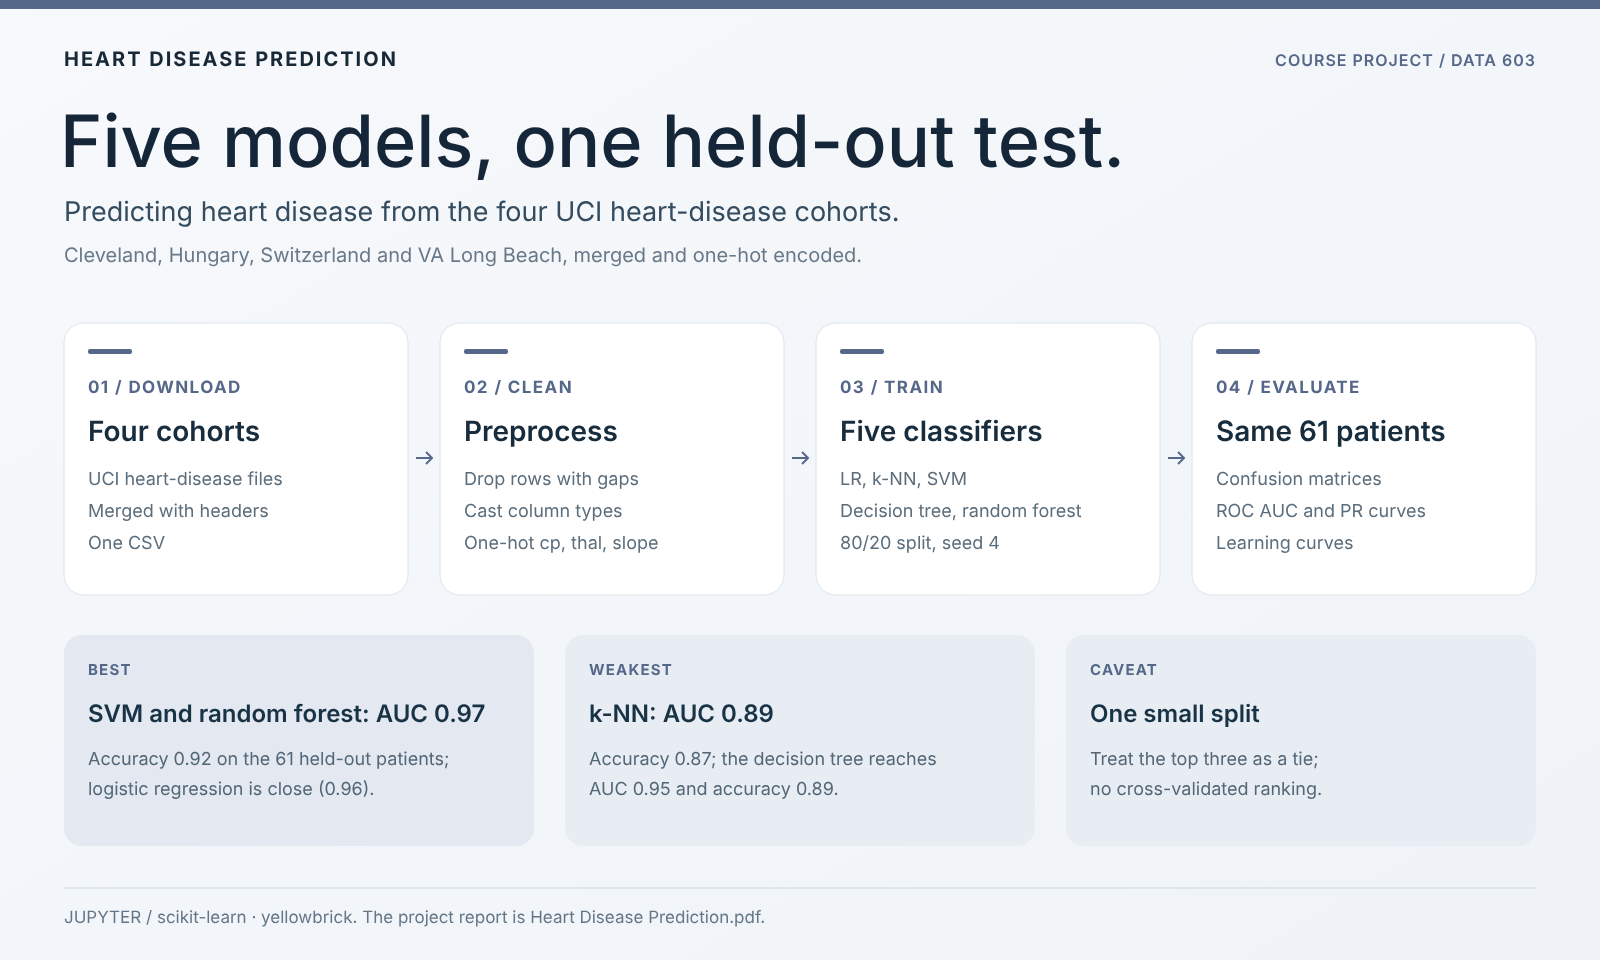
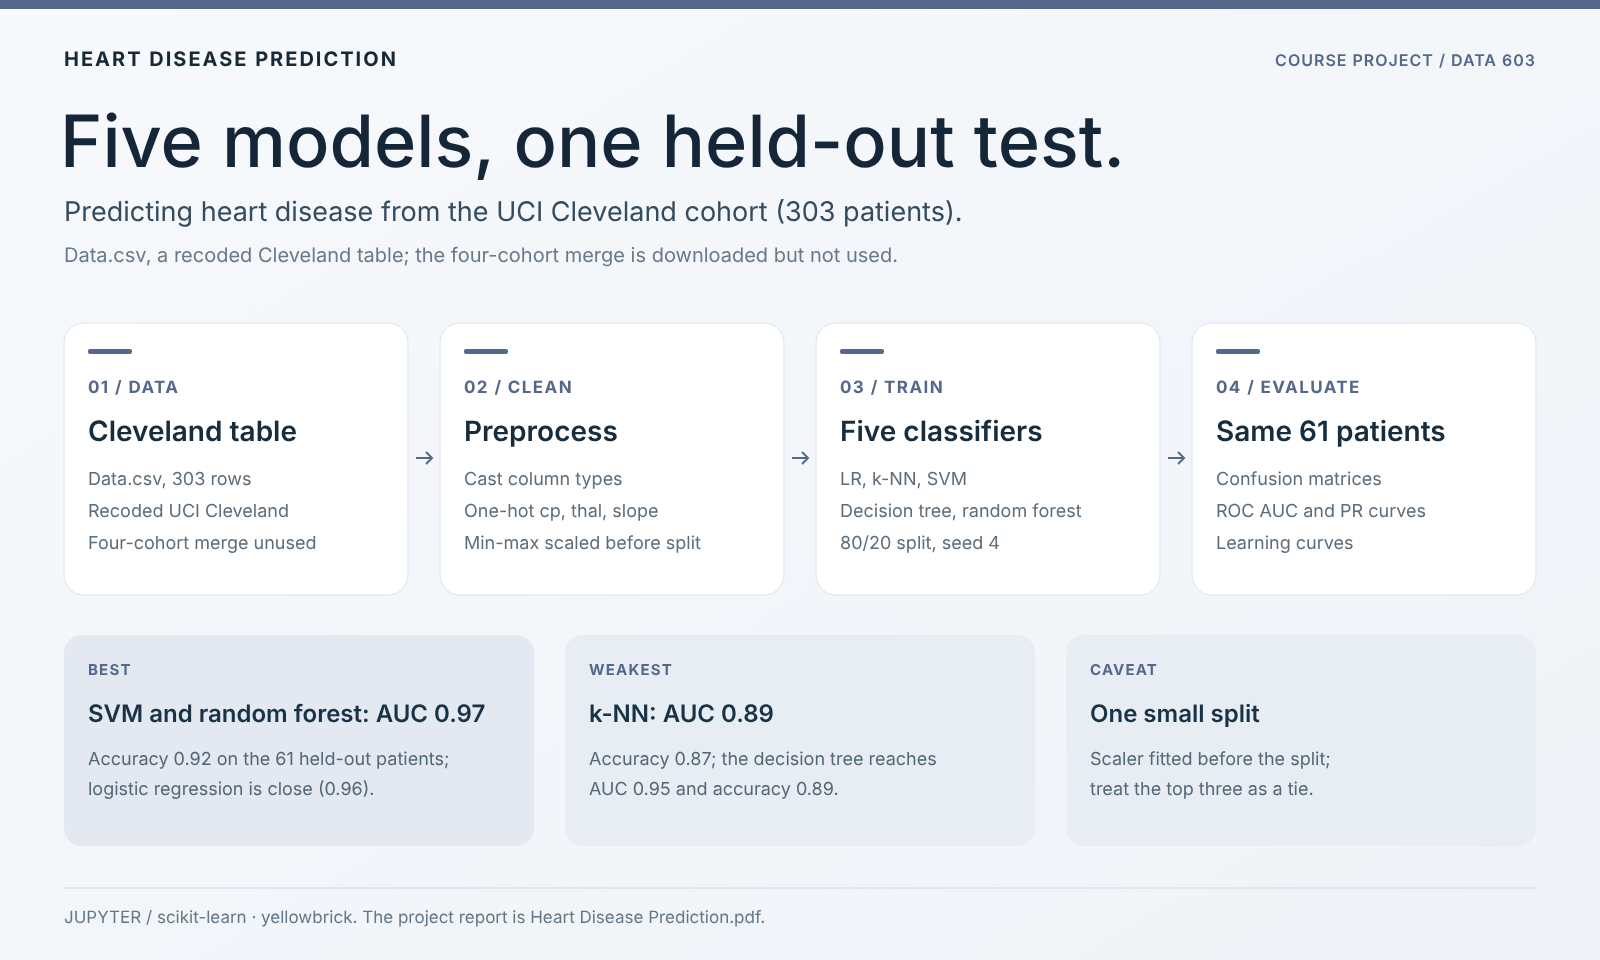
docs: describe what the code does

diff --git a/README.md b/README.md
@@ -4,13 +4,13 @@
 
 **English** · [简体中文](README.zh-CN.md)
 
-**Five classifiers on the four UCI heart-disease cohorts, compared on one held-out test.**
+**Five classifiers on the UCI Cleveland heart-disease data, compared on one held-out test.**
 
 ![Jupyter](https://img.shields.io/badge/Jupyter-notebooks-F37626?logo=jupyter&logoColor=white)
 ![scikit-learn](https://img.shields.io/badge/scikit--learn-5%20models-F7931E?logo=scikitlearn&logoColor=white)
 [![homepage](https://img.shields.io/badge/homepage-ccao2679.com-555555)](https://www.ccao2679.com/projects/#heart-disease-prediction)
 
-<img src="docs/figures/overview.png" alt="Overview poster: four UCI cohorts, preprocessing, five classifiers; SVM and random forest reach ROC AUC 0.97" width="100%">
+<img src="docs/figures/overview.png" alt="Overview poster: Cleveland data (303 patients), preprocessing, five classifiers; SVM and random forest reach ROC AUC 0.97" width="100%">
 
 </div>
 
@@ -30,7 +30,7 @@
 
 ## Highlights
 
-- **Data:** the four UCI heart-disease cohorts (Cleveland, Hungary, Switzerland, VA Long Beach), merged into one table and one-hot encoded.
+- **Data:** `Data.csv`, a recoded copy of the 303-patient UCI Cleveland cohort, with `cp`, `thal` and `slope` one-hot encoded. `download_data.py` also fetches all four UCI cohorts (Cleveland, Hungary, Switzerland, VA Long Beach) into `RawHeartDiseaseData.csv` (920 rows), but the notebooks do not read that file.
 - **Models:** logistic regression, k-nearest neighbours, SVM, decision tree and random forest on an 80/20 split (`random_state=4`, 61 held-out patients).
 - **Result:** SVM and random forest reach ROC AUC 0.97; on a split this small, treat the top three as a tie.
 
@@ -68,7 +68,7 @@ Arrows follow the files each step reads and writes; all five models share one sp
 | Decision tree | 0.95 | 0.89 |
 | k-nearest neighbours | 0.89 | 0.87 |
 
-AUC is read from each model's ROC plot; accuracy is computed from the confusion matrix in the same figure.
+AUC is read from each model's ROC plot; accuracy is computed from the confusion matrix in the same figure. The notebook fits `MinMaxScaler` on all 303 rows before the split, so test-set statistics leak into the scaling. In `Data.csv`, `target = 1` marks the records that UCI codes as no disease (`num = 0`), so the single-patient example at the end of the notebook prints the opposite label.
 
 <table>
 <tr><td><img src="SVM.png" alt="SVM: confusion matrix, ROC, learning curve, PR curve"></td><td><img src="RF.png" alt="Random forest: confusion matrix, ROC, learning curve, PR curve"></td></tr>
@@ -78,16 +78,17 @@ AUC is read from each model's ROC plot; accuracy is computed from the confusion 
 ## Quick start
 
 ```bash
-python download_data.py            # fetch and merge the four UCI files
-jupyter notebook Processing_data.ipynb Heart_Disease_Prediction.ipynb
+jupyter notebook Processing_data.ipynb Heart_Disease_Prediction.ipynb   # reads Data.csv
+python download_data.py   # optional: merges the four UCI files into RawHeartDiseaseData.csv
 ```
 
 ## Repository layout
 
 | File | Purpose |
 |---|---|
-| `download_data.py` | Download the four UCI files and merge them into one CSV |
-| `Processing_data.ipynb` | Cleaning, type conversion, one-hot encoding → `processed_data.csv` |
+| `Data.csv` | Recoded Cleveland data (303 rows) that the notebooks train on |
+| `download_data.py` | Download the four UCI files and merge them into `RawHeartDiseaseData.csv` (not read by the notebooks) |
+| `Processing_data.ipynb` | Reads `Data.csv`; type conversion, one-hot encoding → `processed_data.csv` |
 | `Heart_Disease_Prediction.ipynb` | Model training and evaluation |
 | `SVM.png`, `RF.png`, `LR.png`, `DT.png`, `KNN.png` | Per-model evaluation figures |
 | `docs/Heart Disease Prediction.pdf` | Project report |

diff --git a/PROBLEM.md b/PROBLEM.md
@@ -6,7 +6,7 @@
 
 **Central tension:** Combining sources can increase sample size, but source differences and missing-value removal can change the population being evaluated. More complex classifiers need not transfer better.
 
-**Current evidence and gap:** [README.md](README.md) describes combining UCI tables, removing missing rows and encoding categories. It does not establish source-aware generalization or clinical usefulness. [Processing_data.ipynb](Processing_data.ipynb) and [Heart_Disease_Prediction.ipynb](Heart_Disease_Prediction.ipynb) are the documented analysis entry points.
+**Current evidence and gap:** [README.md](README.md) describes the current pipeline: the notebooks train on the 303-row Cleveland table (`Data.csv`) and fit the scaler before the split; the four-cohort merge produced by `download_data.py` is not used. It does not establish source-aware generalization or clinical usefulness. [Processing_data.ipynb](Processing_data.ipynb) and [Heart_Disease_Prediction.ipynb](Heart_Disease_Prediction.ipynb) are the documented analysis entry points.
 
 **Decisive verification:** Audit duplicates and label definitions before splitting. Fit imputation and encoding within each training fold; compare a simple majority/logistic baseline with candidate classifiers using a common untouched test set and, where viable, source-held-out evaluation. Report discrimination, calibration, class-specific errors and exclusions. If improvement disappears after leakage controls, treat that as the main learning result.
 

diff --git a/PROBLEM.zh.md b/PROBLEM.zh.md
@@ -6,7 +6,7 @@
 
 **核心矛盾：** 合并多个来源可以扩大样本量，但来源差异和删除缺失值都可能改变被评估的人群。更复杂的分类器未必迁移得更好。
 
-**已有证据与缺口：** [README.md](README.md) 介绍了合并 UCI 数据表、删除缺失行和类别编码。这些并不能证明模型在考虑来源差异后仍能泛化，也不能证明其临床价值。[Processing_data.ipynb](Processing_data.ipynb) 和 [Heart_Disease_Prediction.ipynb](Heart_Disease_Prediction.ipynb) 是文档中记录的分析入口。
+**已有证据与缺口：** [README.md](README.md) 说明了当前流程：notebook 在 303 行的 Cleveland 数据表（`Data.csv`）上训练，并在划分之前拟合缩放器；`download_data.py` 合并出的四队列数据没有被使用。这些并不能证明模型在考虑来源差异后仍能泛化，也不能证明其临床价值。[Processing_data.ipynb](Processing_data.ipynb) 和 [Heart_Disease_Prediction.ipynb](Heart_Disease_Prediction.ipynb) 是文档中记录的分析入口。
 
 **决定性验证：** 划分数据之前先检查重复记录和标签定义。缺失值填补和编码只在各训练折内拟合；在同一个未动用的测试集上，把简单的多数类/逻辑回归基线与候选分类器对比，条件允许时再做按来源留出的评估。报告区分度、校准度、各类别的错误以及被排除的样本。若控制泄漏后提升消失，就把这一点作为主要的学习结论。
 
